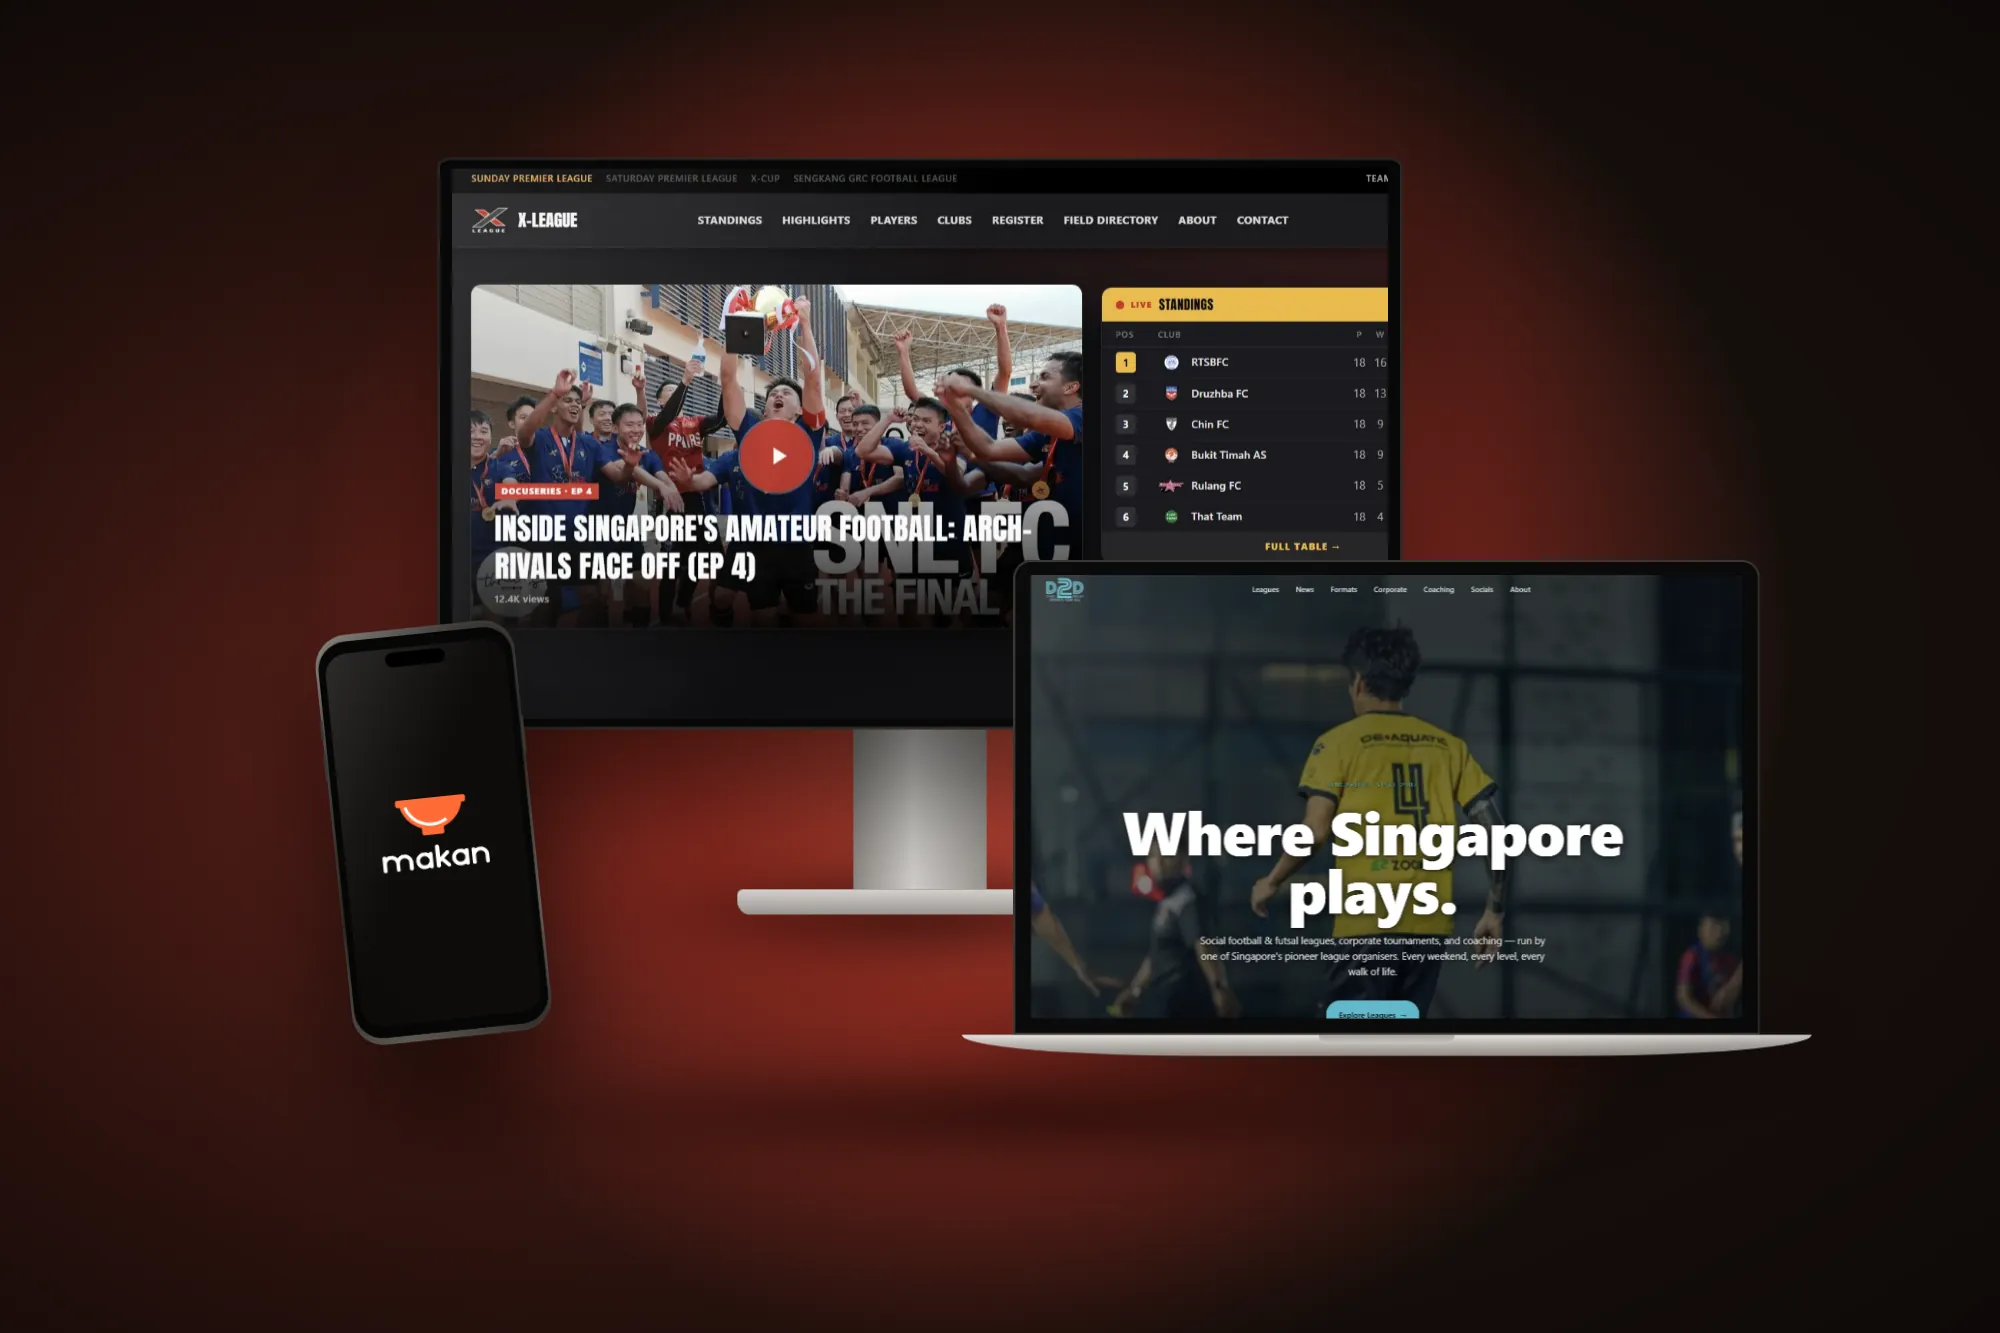
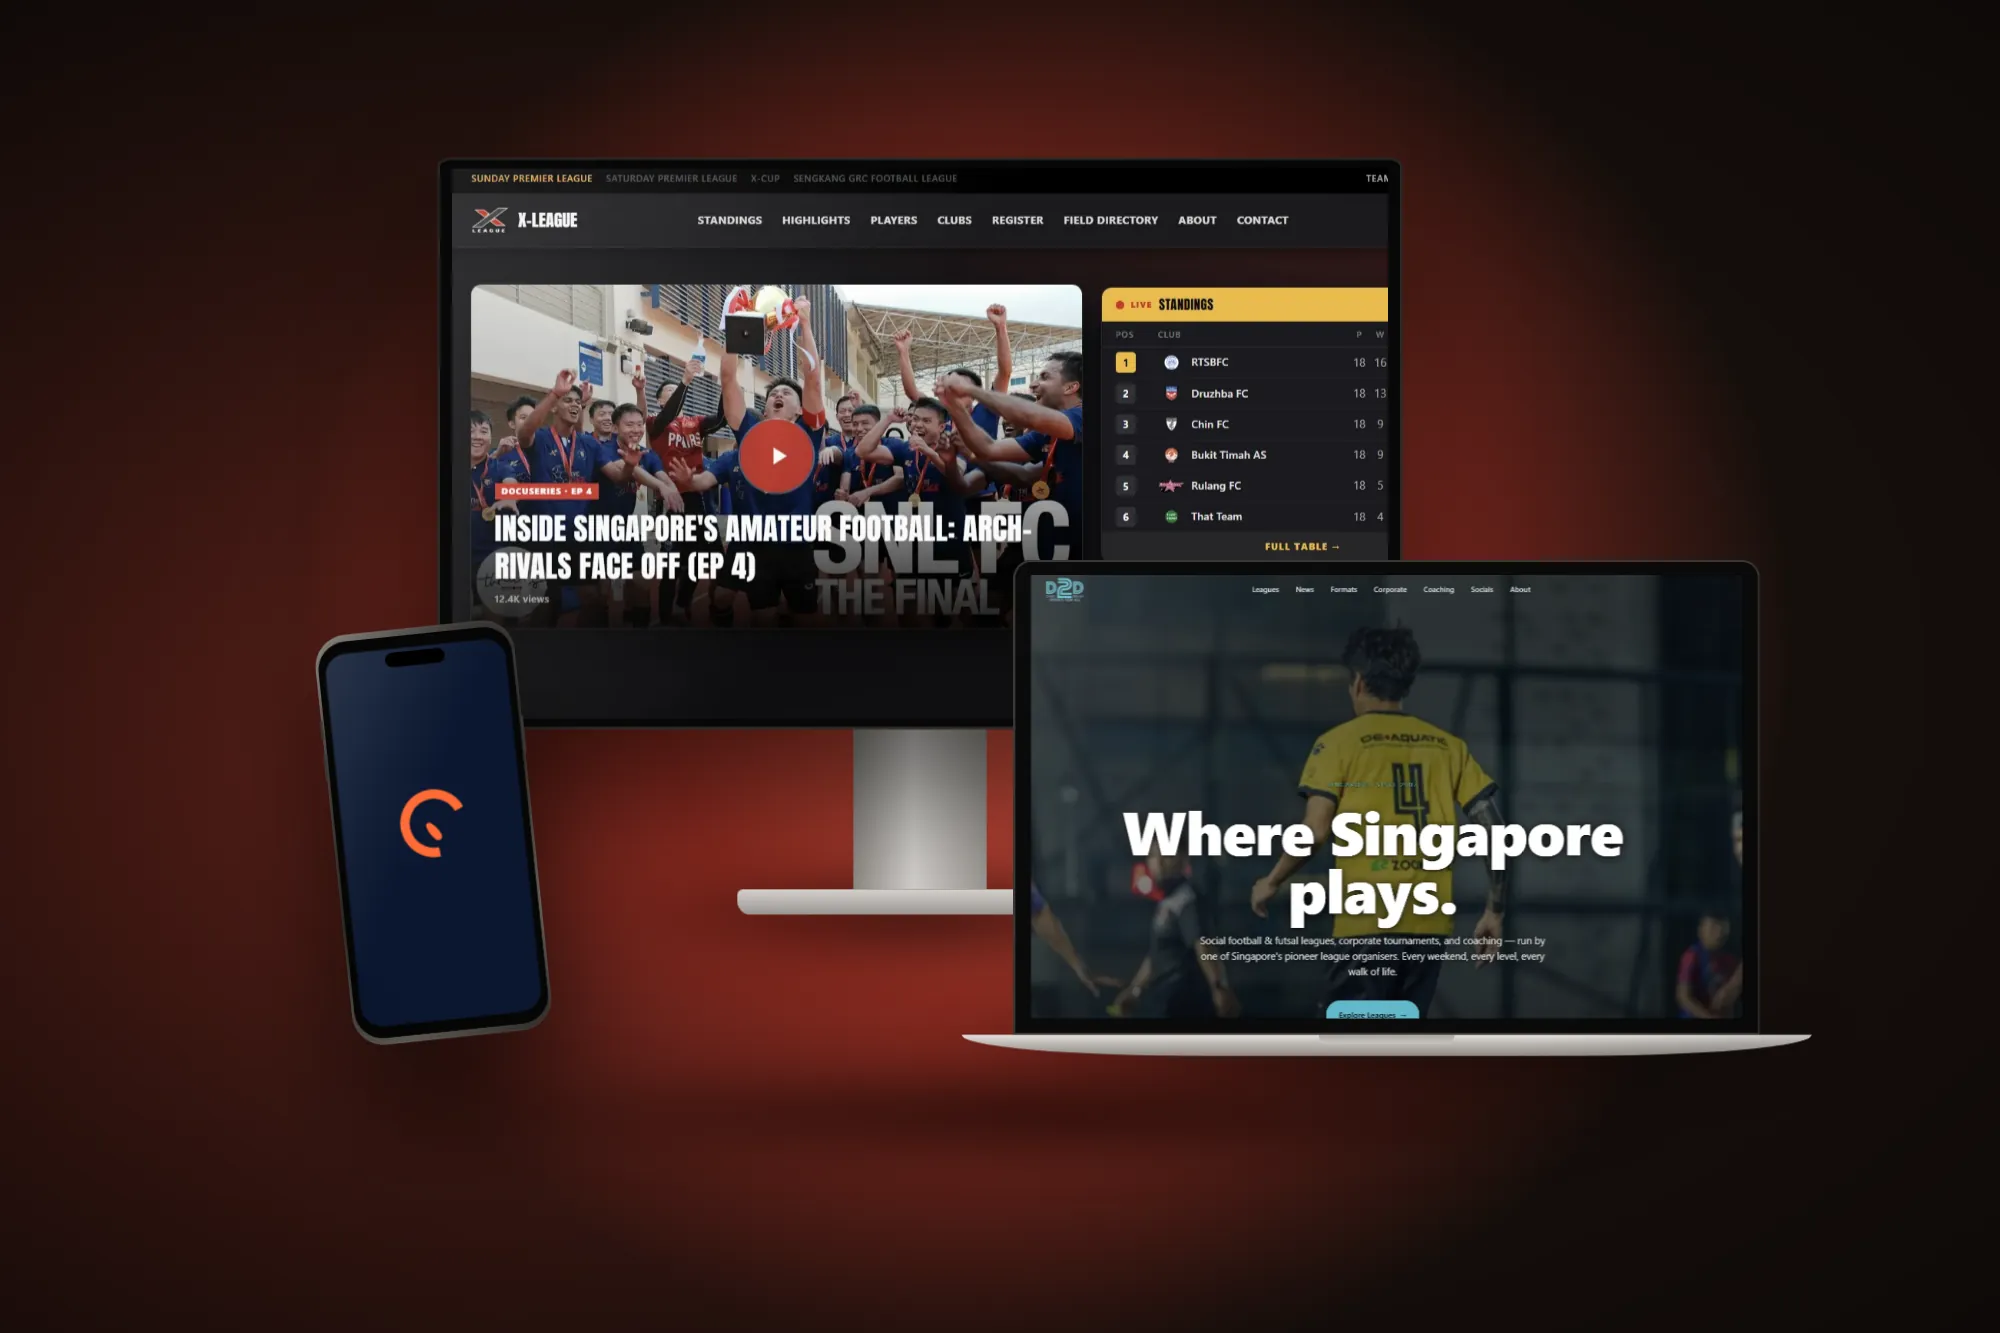
Makan: new mark in the client rail and on the phones
Makan's Nov 2026 mark (orange arc on navy) replaces the bowl logo.

  - client rail: assets/makan-icon.webp, the app icon with rounded
    corners, replaces makan-logo.webp
  - phones in the Mobile apps and About scenes: navy splash with the mark
    (tools/devices/screens/makan-splash-v2.png), re-rendered
  - the We build laptop re-rendered too: its screen shows the site's own
    rail code, which now has the new Makan entry
  - the three changed images get ?v=2 so the one-week asset cache does
    not hold the old pictures; the other six renders are byte-identical

Verified at 1440 and 390: no overflow, no console errors, 38/38 images.

Claude-Session: https://claude.ai/code/session_015gnRNNeY8FkZxVPkNfzxvg

Changed region(s): [[0.155, 0.4614, 0.279, 0.7689]]

diff --git a/index.html b/index.html
@@ -363,7 +363,7 @@ button{font:inherit;color:inherit}
       <a class="link" href="#build">More on operations systems ↘</a></div>
   </div>
   <div class="slide" id="s3" role="tabpanel" aria-labelledby="t3">
-    <img class="cover" src="assets/dev-apps.webp" alt="" width="2400" height="1013" loading="lazy">
+    <img class="cover" src="assets/dev-apps.webp?v=2" alt="" width="2400" height="1013" loading="lazy">
     <div class="glass"><h3 class="display">“Everyone keeps asking for the thing that only lives on your laptop.”</h3>
       <p>Native iOS and Android apps that put the live picture in every pocket.</p>
       <a class="link" href="#build">More on mobile apps ↘</a></div>
@@ -386,7 +386,7 @@ button{font:inherit;color:inherit}
       <img class="cover" src="assets/dev-sitin.webp" alt="" width="1467" height="1173" loading="lazy">
       <h3 class="display">We sit in</h3></div>
     <div class="card media" data-r><span class="badge"><i class="mark" aria-hidden="true"></i></span>
-      <img class="cover" src="assets/dev-build.webp" alt="" width="1467" height="1173" loading="lazy">
+      <img class="cover" src="assets/dev-build.webp?v=2" alt="" width="1467" height="1173" loading="lazy">
       <h3 class="display">We build</h3></div>
     <div class="card media" data-r><span class="badge"><i class="mark" aria-hidden="true"></i></span>
       <img class="cover" src="assets/dev-stay.webp" alt="" width="1467" height="1173" loading="lazy">
@@ -429,7 +429,7 @@ button{font:inherit;color:inherit}
         <div class="txt"><h3 class="display">Operations systems that replace memory and WhatsApp</h3>
           <div class="more"><div><p>Scheduling, approvals, paperwork, payouts and per-unit P&amp;L — the back office, systematised.</p>
           <a class="link" href="mailto:hello@stackformstudios.com?subject=Operations%20systems">Talk about operations ↗</a></div></div></div></article>
-      <article class="svc media" data-r><img class="cover" src="assets/dev-apps.webp" alt="" width="2400" height="1013" loading="lazy">
+      <article class="svc media" data-r><img class="cover" src="assets/dev-apps.webp?v=2" alt="" width="2400" height="1013" loading="lazy">
         <div class="txt"><h3 class="display">Native apps that put it in every pocket</h3>
           <div class="more"><div><p>iOS and Android, on the same backbone as everything else — updates, schedules, notifications.</p>
           <a class="link" href="mailto:hello@stackformstudios.com?subject=Mobile%20app">Talk about an app ↗</a></div></div></div></article>
@@ -444,7 +444,7 @@ button{font:inherit;color:inherit}
 
 <section class="about sec gut" id="about">
   <div class="about-grid">
-    <div class="about-img media" data-r><img class="cover" src="assets/dev-about.webp" alt="" width="2000" height="1333"></div>
+    <div class="about-img media" data-r><img class="cover" src="assets/dev-about.webp?v=2" alt="" width="2000" height="1333"></div>
     <div data-r>
       <span class="tag">About</span>
       <h2 class="display">A small team. No hand-offs.</h2>
@@ -566,7 +566,7 @@ button{font:inherit;color:inherit}
     { n: 'D2D Sports', u: 'https://d2dsports.sg', s: 'assets/d2d-logo.webp', w: 158, h: 102 },
     { n: 'X-League', u: 'https://xleague.sg', s: 'assets/xleague-logo-light.webp', w: 440, h: 290 },
     { n: 'National Scout Games', u: 'https://nationalscoutgames.sg', s: 'assets/nsg-logo.svg', w: 390, h: 563, tall: 1 },
-    { n: 'Makan', s: 'assets/makan-logo.webp', w: 480, h: 326 }
+    { n: 'Makan', s: 'assets/makan-icon.webp', w: 256, h: 256, tall: 1 }
   ];
   var reps = Math.ceil(12 / clients.length);
   function tile(c, hidden) {

diff --git a/tools/devices/studio.html b/tools/devices/studio.html
@@ -118,7 +118,7 @@ const SCREENS = {
   d2dApp:   { html: img(SCR + 'd2d-app.webp') },
   xlSite:   { html: img(SCR + 'xleague-website.webp', 'left top') },
   xlProf:   { html: img(SCR + 'xleague-profile.webp', 'left top') },
-  makan:    { cls: 'splash', html: `<img src="${SCR}makan-splash.png" alt="">` },
+  makan:    { html: img(SCR + 'makan-splash-v2.png', 'center') },
   code:     { cls: 'editor', html: '' }   // filled from the live index.html below
 };
 

diff --git a/README.md b/README.md
@@ -39,7 +39,7 @@ total, rendered at 4/3 density so screen text stays sharp on large displays.
 | `dev-websites` | laptop — X-League site |
 | `dev-software` | monitor — D2D admin suite |
 | `dev-operations` | tablet + phone — D2D fixtures, D2D app |
-| `dev-apps` | two phones — Makan dark splash, D2D app |
+| `dev-apps` | two phones — Makan splash (navy, new mark), D2D app |
 | `dev-automation` | laptop + phone — D2D site, D2D app |
 | `dev-sitin` | tablet — X-League player profile |
 | `dev-build` | laptop — this site's client-rail code, pulled live from `index.html` |
@@ -68,7 +68,7 @@ show them, picture above copy.
 | `d2d-logo.webp` | **Stopgap.** Keyed out of a website screenshot; the source is only 79 px wide, so it is soft. Replace with the original file. |
 | `xleague-logo-light.webp` | **Stopgap.** The original has white lettering that disappears on the white tiles; this copy recolours only the lettering. Replace with an official light-background version. |
 | `nsg-logo.svg` | The original mark with its viewBox cropped to the content. |
-| `makan-logo.webp` | From the supplied artwork. No URL yet, so its tile is not a link — add `u:` to its entry to link it. |
+| `makan-icon.webp` | Makan's app icon (Nov 2026 mark), corners rounded. No URL yet, so its tile is not a link — add `u:` to its entry to link it. |
 
 The client rail is built in JS from the `clients` array near the bottom of
 `index.html` — add an entry there to add a client.
@@ -78,7 +78,7 @@ The client rail is built in JS from the `clients` array near the bottom of
 `vercel.json` gives `assets/` a week's `max-age` with a month of
 `stale-while-revalidate`. Asset filenames are not content-hashed, so this is
 deliberately not `immutable` — **when replacing an image, give it a new
-filename** or visitors may see the old one for up to a week.
+filename or add a `?v=` query** or visitors may see the old one for up to a week.
 
 ## Local preview
 
